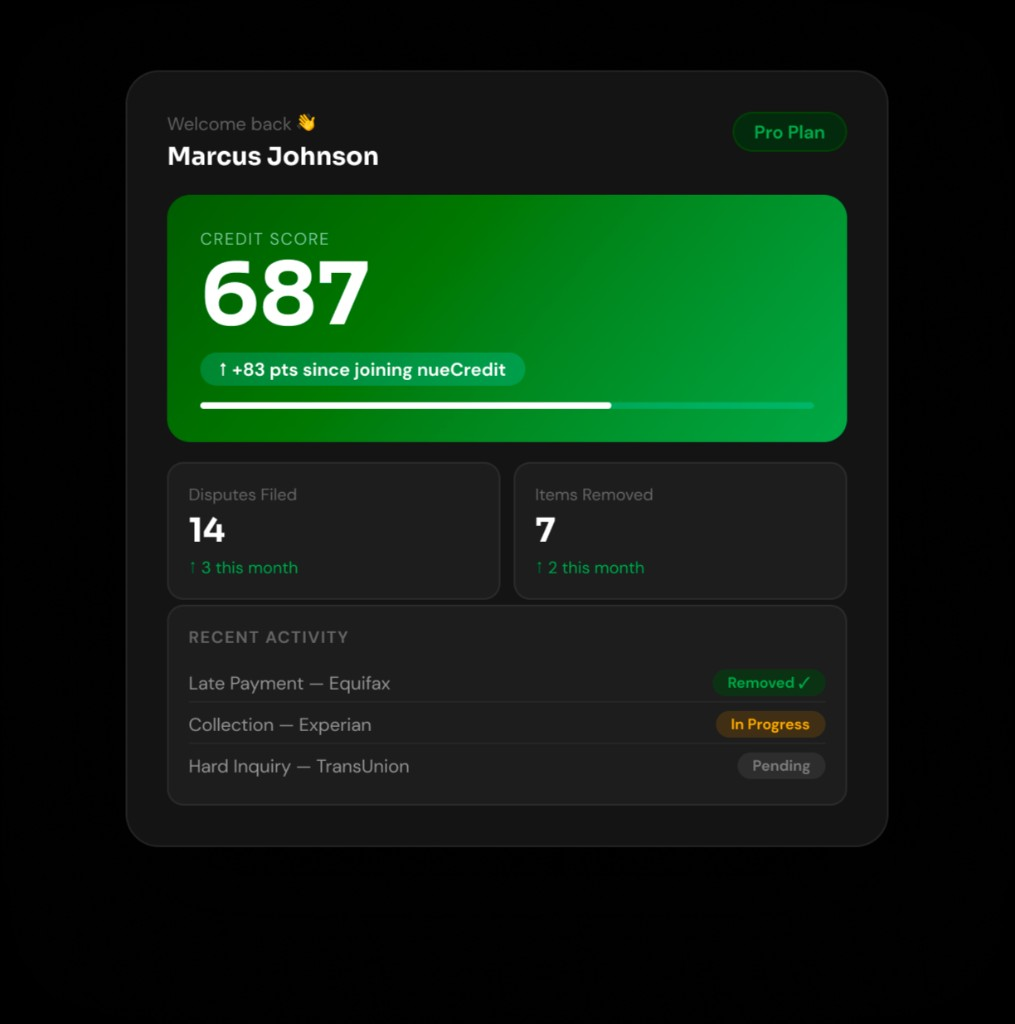
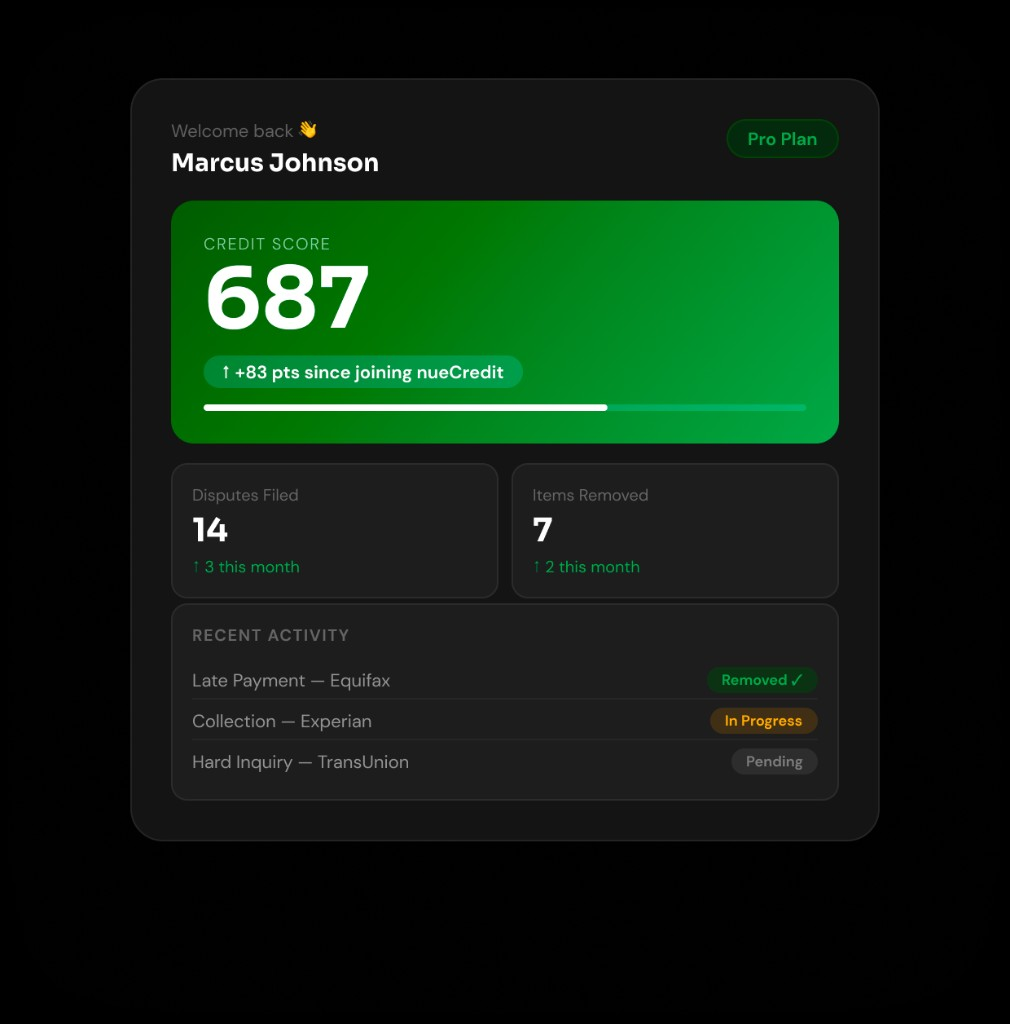
update hero image and use mix-blend-mode to remove black background
Made-with: Cursor

diff --git a/index.html b/index.html
@@ -22,7 +22,7 @@
 .hero-trust { display: flex; gap: 20px; flex-wrap: wrap; }
 .hero-trust-item { display: flex; align-items: center; gap: 6px; font-size: 12px; color: rgba(255,255,255,.35); }
 .hero-img-wrap { display:flex; align-items:center; justify-content:center; }
-.hero-img { width:100%; max-width:520px; border-radius:24px; box-shadow:0 32px 80px rgba(0,0,0,.55); display:block; }
+.hero-img { width:100%; max-width:520px; display:block; mix-blend-mode:lighten; }
 .hiw { background: var(--bk); }
 .tl-wrap { position:relative; max-width:660px; margin:0 auto; }
 .tl-wrap::before { content:''; position:absolute; left:17px; top:0; bottom:0; width:2px; background:rgba(255,255,255,.07); border-radius:2px; }
